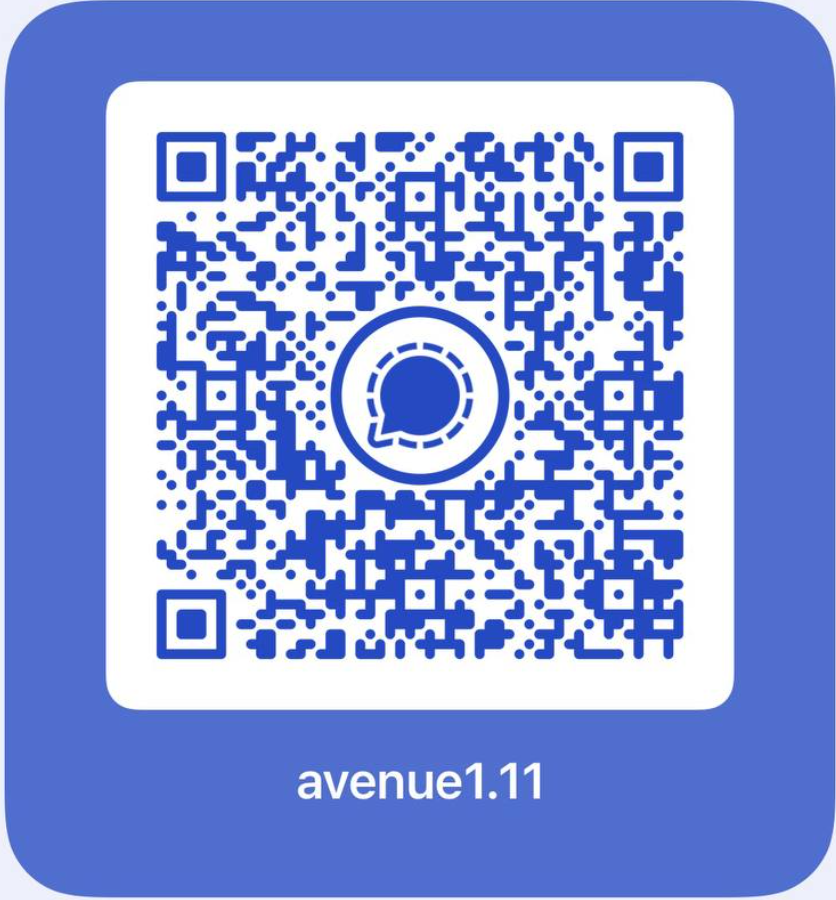
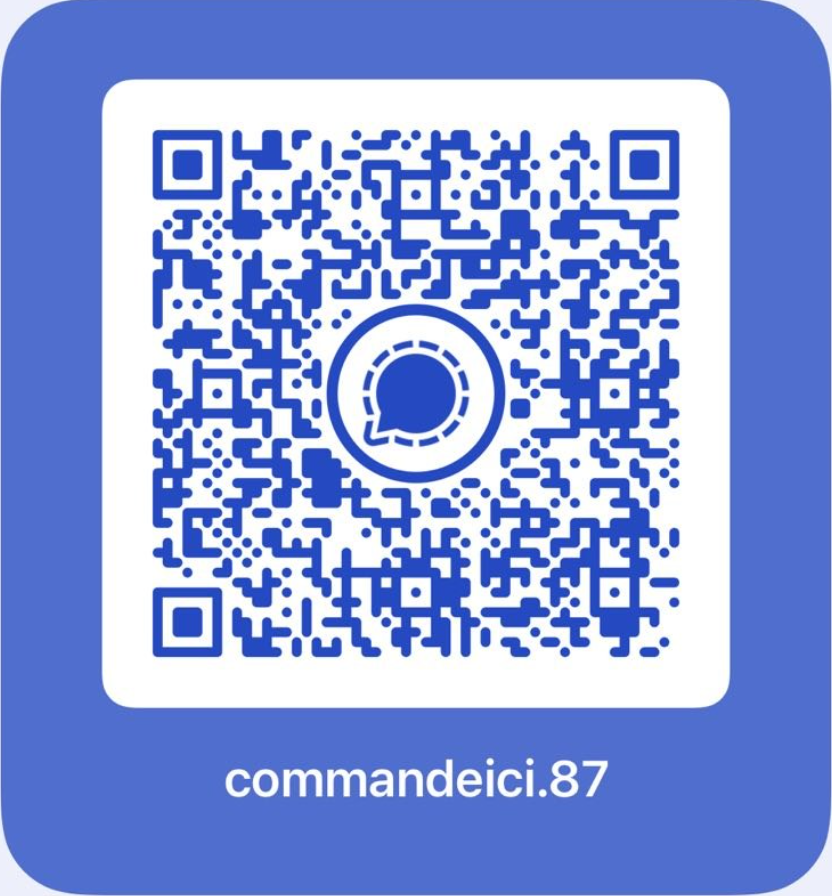
new

diff --git a/script.js b/script.js
@@ -30,7 +30,7 @@ document.addEventListener("DOMContentLoaded", function () {
     }, */
     {
       name: "SIGNAL",
-      url: "https://signal.me/",
+      url: "https://signal.me/#eu/u0YwB1IPnEV4-_hYbaBU9VPvw6H7gvjCFYw3bSKH8kYCsaMIORxAoYZwUW1-OgEj",
       icon: "#icon-signal",
       id: "signal-main",
       className: "signal",
